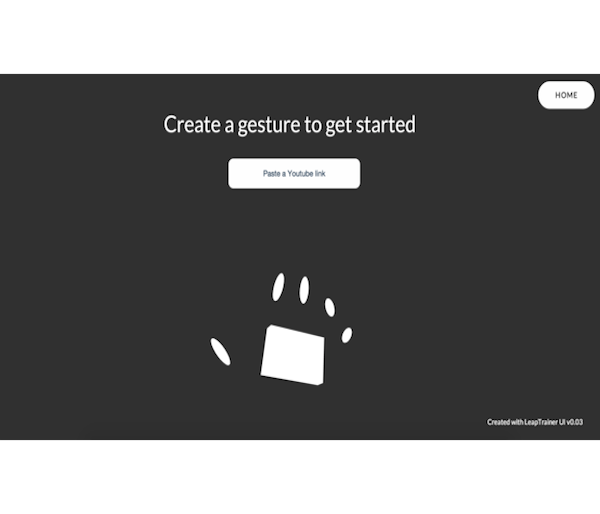
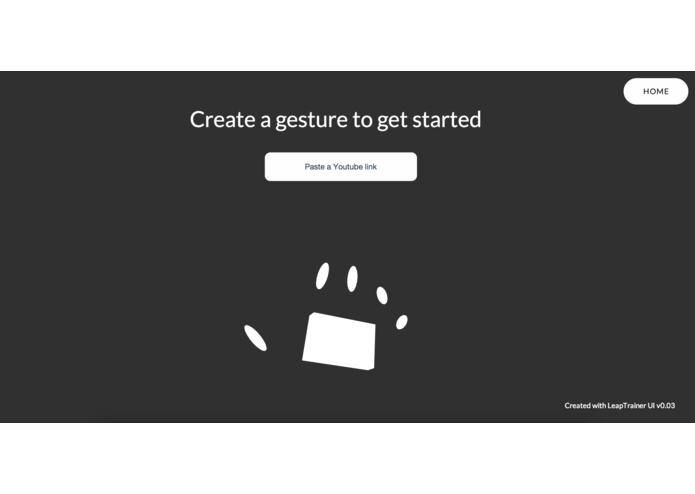
added media queries - need to test extensively

Changed region(s): [[0.45, 0.2429, 0.48, 0.2733], [0.39, 0.2429, 0.42, 0.2733]]

diff --git a/index.html b/index.html
@@ -67,7 +67,7 @@
         <div class="projects">
             <div class="project">
                 <div class="proj-content">
-                    <div class="proj-title">Maya Visualizer | <span class="time">Dec 2014</span></div>
+                    <div class="proj-title">Maya Visualizer<span class="divider"> | </span><span class="time">Dec 2014</span></div>
                     <div class="proj-descrip">
                         <p>Extracts GDELT data on news involving the US to analyze the progression of US' foreign relations over time and produces a 3D keyframe animation on Maya</p>
                         <p>Stack: Python</p>
@@ -81,7 +81,7 @@
             
             <div class="project">
                 <div class="proj-content">
-                    <div class="proj-title">PlayKit | <span class="time">Current</span></div>
+                    <div class="proj-title">PlayKit<span class="divider"> | </span><span class="time">Current</span></div>
                     <div class="proj-descrip">
                         <p>Compilation of mock websites and web design effects to practice front-end design & tutorials.</p>
                         <p>Stack: HTML, SASS, JS</p>
@@ -98,7 +98,7 @@
             
           <div class="project">
             <div class="proj-content">
-                <div class="proj-title">iCAN | <span class="time">Current</span></div>
+                <div class="proj-title">iCAN<span class="divider"> | </span><span class="time">Current</span></div>
                 <div class="proj-descrip">
                     <p>Web application to facilitate high school student - mentor interaction and to monitor and keep track of tasks to reduce "summer melt" in Philadelphia.</p>
                     <p>Stack: Python, Flask, Jinja, SASS, JS</p>
@@ -114,7 +114,7 @@
             
         <div class="project">
             <div class="proj-content">
-                <div class="proj-title"> Dead Simple Encryption | <span class="time">Google's Hack4Humanity</span></div>
+                <div class="proj-title"> Dead Simple Encryption <span class="divider"> | </span><span class="time">Google's Hack4Humanity</span></div>
                 <div class="proj-descrip">
                     <p>Easy drag and drop encryption cross-platform app that safely encrypts your private files by injecting them into other safe files local to your computer. No network needed, no learning curve.</p>
                     <p><em>Won "Most Creative Hack" and staff pick on ChallengePost</em></p>
@@ -133,7 +133,7 @@
             
         <div class="project">
             <div class="proj-content">
-                <div class="proj-title">NoteIt | <span class="time">Dec 2014</span></div>
+                <div class="proj-title">NoteIt<span class="divider"> | </span><span class="time">Dec 2014</span></div>
                 <div class="proj-descrip">
                     <p>Extracts text from webpages to enable highlighting and note taking functionality. Save for later and see what notes corresponded to what highlight.</p>
                     <p>Stack: Jinja, SASS, jQuery, Python, Flask</p>
@@ -149,7 +149,7 @@
 
         <div class="project">
             <div class="proj-content">
-                <div class="proj-title">Gestr | <span class="time">YHack F'14</span></div>
+                <div class="proj-title">Gestr<span class="divider"> | </span><span class="time">YHack F'14</span></div>
                 <div class="proj-descrip">
                     <p>Trigger personal Youtube playlists with hand gestures and automate play, pause and switching tracks. Using Leap Motion + Machine Learning</p>
                     <p>Stack: HTML, SASS, JS, Leap.js</p>
@@ -169,7 +169,7 @@
         
         <div class="project">
             <div class="proj-content">
-                <div class="proj-title">Brokemo | <span class="time">PennApps F'14</span></div>
+                <div class="proj-title">Brokemo<span class="divider"> | </span><span class="time">PennApps F'14</span></div>
                 <div class="proj-descrip">
                     <p>Venmo for the broke - IOU transactions with photo proof among Facebook Friends</p>
                     <p>Stack: HTML, SASS, JS, Parse</p>
@@ -185,7 +185,7 @@
         
         <div class="project">
             <div class="proj-content">
-                <div class="proj-title">Decision Bot | <span class="time">Aug 2014</span></div>
+                <div class="proj-title">Decision Bot<span class="divider"> | </span><span class="time">Aug 2014</span></div>
                 <div class="proj-descrip">
                     <p>Web application to generate decisions with corresponding animation on input</p>
                     <p>Stack: Backbone.js, Underscore.js, JS, HTML, SASS</p>
@@ -202,7 +202,7 @@
 
         <div class="project">
             <div class="proj-content">
-                <div class="proj-title">Coffee Time | <span class="time">Apr 2014</span></div>
+                <div class="proj-title">Coffee Time<span class="divider"> | </span><span class="time">Apr 2014</span></div>
                 <div class="proj-descrip">
                     <p>Time management game simulating a coffee shop by fulfilling random customer orders. Includes conveyor belt animation and tracking, grocery shopping and recipe book</p>
                     <p>Stack: Java</p>

diff --git a/css/landing.css b/css/landing.css
@@ -866,14 +866,14 @@ hr {
 /* line 255, ../scss/landing.scss */
 .proj-content {
   width: 50%;
-  float: left;
   margin-right: 10%;
+  float: left;
 }
 
 /* line 261, ../scss/landing.scss */
 .proj-img {
-  width: 40%;
   float: left;
+  width: 40%;
 }
 /* line 265, ../scss/landing.scss */
 .proj-img img {
@@ -914,4 +914,70 @@ hr {
   background: #4dd3ff;
 }
 
+@media (max-width: 400px) {
+  /* line 305, ../scss/landing.scss */
+  .proj-img img {
+    width: 250px;
+    height: 200px;
+  }
+
+  /* line 310, ../scss/landing.scss */
+  .proj-title {
+    margin-top: 5%;
+    font-size: 150%;
+  }
+
+  /* line 315, ../scss/landing.scss */
+  .time {
+    font-size: 80%;
+  }
+
+  /* line 319, ../scss/landing.scss */
+  #title {
+    margin-top: 15%;
+    font-size: 200%;
+  }
+}
+@media (min-width: 400px) and (max-width: 460px) {
+  /* line 326, ../scss/landing.scss */
+  .proj-title {
+    margin-top: 5%;
+    font-size: 200%;
+  }
+
+  /* line 331, ../scss/landing.scss */
+  .time {
+    font-size: 100%;
+  }
+
+  /* line 335, ../scss/landing.scss */
+  #title {
+    margin-top: 10%;
+    font-size: 250%;
+  }
+}
+@media (min-width: 440px) and (max-width: 1000px) {
+  /* line 342, ../scss/landing.scss */
+  .time {
+    display: block;
+  }
+
+  /* line 346, ../scss/landing.scss */
+  .divider {
+    display: none;
+  }
+
+  /* line 350, ../scss/landing.scss */
+  .proj-content, .proj-img {
+    width: 100%;
+    text-align: center;
+  }
+
+  /* line 355, ../scss/landing.scss */
+  .proj-img {
+    margin-bottom: 5%;
+    padding-bottom: 5%;
+    border-bottom: 4px double #dadedf;
+  }
+}
 /**** PORTFOLIO ***/

diff --git a/scss/landing.scss b/scss/landing.scss
@@ -254,13 +254,13 @@ hr {
 
 .proj-content {
     width: 50%;
-    float: left;
     margin-right: 10%;
+    float:left;
 }
 
 .proj-img {
-    width: 40%;
     float:left;
+    width: 40%;
     
     img {
       float:center;
@@ -299,8 +299,64 @@ hr {
     }
 }
 
-// media queries
-@media (min-width:1000px) {
+//media queries
+
+@media (max-width: 400px) {
+    .proj-img img{
+        width: 250px;
+        height: 200px;
+    }
+    
+    .proj-title {
+        margin-top: 5%;
+        font-size: 150%;
+    }
+    
+    .time {
+        font-size: 80%;
+    }
+    
+    #title {
+        margin-top: 15%;
+        font-size: 200%;
+    }
+}
+
+@media (min-width: 400px) and (max-width:460px) {
+    .proj-title {
+        margin-top: 5%;
+        font-size: 200%;
+    }
+    
+    .time {
+        font-size: 100%;
+    }
+    
+    #title {
+        margin-top: 10%;
+        font-size: 250%;
+    }
+}
+
+@media (min-width:440px) and (max-width:1000px) {
+    .time {
+        display:block;
+    }
+    
+    .divider {
+       display:none;
+    }
+    
+    .proj-content, .proj-img {
+        width: 100%;
+        text-align: center;
+    }
+    
+    .proj-img {
+        margin-bottom: 5%;
+        padding-bottom: 5%;
+        border-bottom: 4px double $pearl;
+    }
 }
 
 /**** PORTFOLIO ***/
